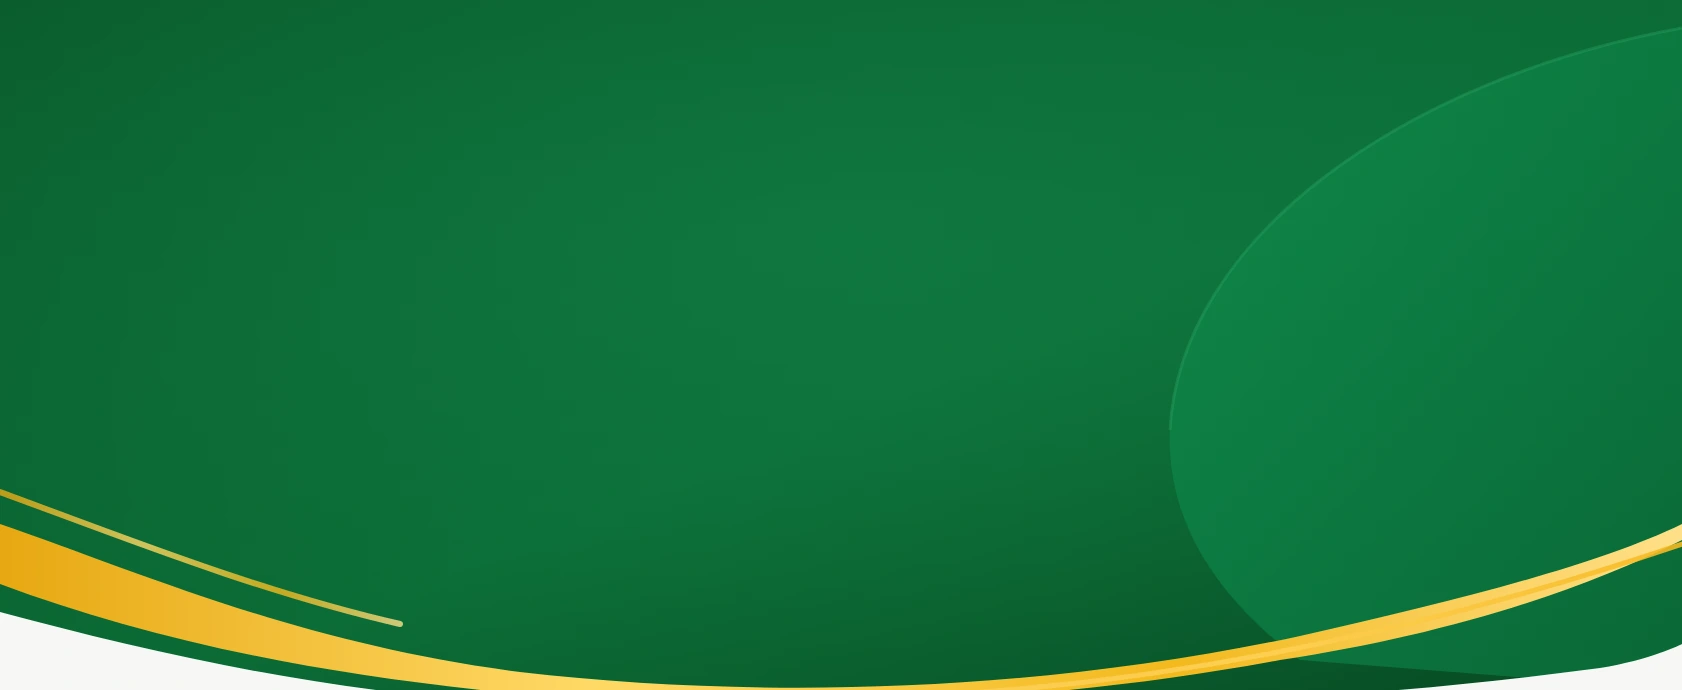
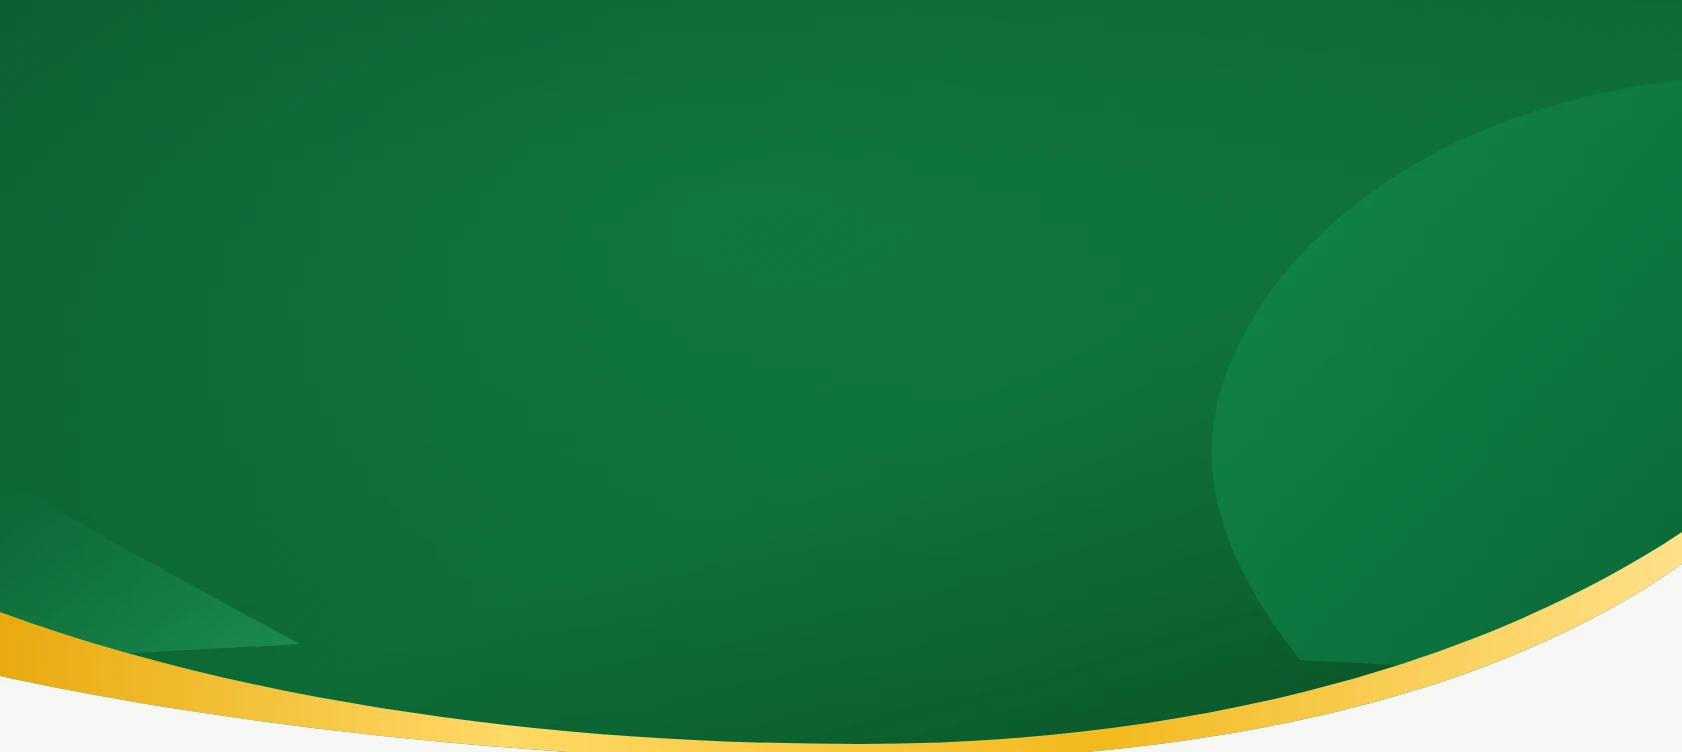
Home: header art matches the design (gold smile swoosh, taller), top/nearby cards sized like the six tiles
Claude-Session: https://claude.ai/code/session_01FfoA5BLdbc2XaEsMrMSMtQ

Changed region(s): [[0.0, 0.7, 1.0, 1.0]]

diff --git a/screens/customer.tsx b/screens/customer.tsx
@@ -128,18 +128,18 @@ function HomeOld({ navigation }: any) {
   return (
     <View style={{ flex: 1, backgroundColor: C.bg }}>
       {/* the header: the owner's artwork as the background (green, light-green shape, gold swoosh), the content drawn over it at the same places */}
-      <View style={{ width: '100%', aspectRatio: 841 / 345, backgroundColor: '#0B4A22', overflow: 'hidden' }} onLayout={(e) => setHw(e.nativeEvent.layout.width)}>
+      <View style={{ width: '100%', aspectRatio: 841 / 376, backgroundColor: '#0B4A22', overflow: 'hidden' }} onLayout={(e) => setHw(e.nativeEvent.layout.width)}>
         <Image source={require('../assets/images/home/header.webp')} style={{ position: 'absolute', left: 0, top: 0, width: '100%', height: '100%' }} resizeMode="stretch" />
-        <View style={{ position: 'absolute', left: 0, right: 0, top: hw * 0.045, alignItems: 'center' }} pointerEvents="none">
-          <Image source={require('../assets/images/home/logo-design.png')} style={{ width: hw * 0.4 * 754 / 700, height: hw * 0.4 * 383 / 700 }} resizeMode="contain" />
+        <View style={{ position: 'absolute', left: 0, right: 0, top: hw * 0.06, alignItems: 'center' }} pointerEvents="none">
+          <Image source={require('../assets/images/home/logo-design.png')} style={{ width: hw * 0.4, height: hw * 0.4 * 383 / 754 }} resizeMode="contain" />
         </View>
-        <View style={{ position: 'absolute', right: hw * 0.045, top: hw * 0.06, alignItems: 'center', gap: 2 }} pointerEvents="none">
+        <View style={{ position: 'absolute', right: hw * 0.05, top: hw * 0.11, alignItems: 'center', gap: 2 }} pointerEvents="none">
           <View style={{ width: hw * 0.09, height: hw * 0.09, borderRadius: hw * 0.045, borderWidth: 1.5, borderColor: 'rgba(255,255,255,0.75)', alignItems: 'center', justifyContent: 'center' }}>
             <Icon name="person" size={hw * 0.05} color="#fff" />
           </View>
           <T w="black" size={Math.max(11, hw * 0.032)} color="#fff" numberOfLines={1}>أهلاً {me.name.split(' ')[0]}</T>
         </View>
-        <Pressable onPress={() => setAddrOpen(true)} hitSlop={6} style={{ position: 'absolute', left: hw * 0.15, right: hw * 0.15, top: hw * 0.265, flexDirection: 'row', alignItems: 'center', justifyContent: 'center', gap: 8 }}>
+        <Pressable onPress={() => setAddrOpen(true)} hitSlop={6} style={{ position: 'absolute', left: hw * 0.15, right: hw * 0.15, top: hw * 0.322, flexDirection: 'row', alignItems: 'center', justifyContent: 'center', gap: 8 }}>
           <Icon name="location" size={Math.max(15, hw * 0.036)} color={C.gold} />
           <T w="semi" size={Math.max(11.5, hw * 0.03)} color="#fff" numberOfLines={1} style={{ flexShrink: 1 }}>{me.address || 'حدد موقعك لعرض الخدمات المتاحة'}</T>
           <Icon name="chevron-down" size={Math.max(14, hw * 0.033)} color={C.gold} />
@@ -236,11 +236,10 @@ function HomeOld({ navigation }: any) {
               showsHorizontalScrollIndicator={false}
               contentContainerStyle={{ gap: 12, paddingVertical: 4 }}
               renderItem={({ item }) => (
-                <Card onPress={() => navigation.navigate('Provider', { id: item.id })} style={{ width: tw, borderRadius: 24, paddingHorizontal: 9, paddingTop: 10, paddingBottom: 8, alignItems: 'center', gap: 4 }}>
-                  <ProviderLogo p={item} size={Math.round((tw - 18) * 0.62)} />
-                  <T w="bold" size={11.5} align="center" numberOfLines={2}>{item.name}</T>
+                <Card onPress={() => navigation.navigate('Provider', { id: item.id })} style={{ width: tw, height: Math.round(tw * 0.92), borderRadius: 24, paddingHorizontal: 9, paddingTop: 10, paddingBottom: 8, alignItems: 'center', gap: 4, overflow: 'hidden' }}>
+                  <ProviderLogo p={item} size={Math.round((tw - 18) * 0.56)} />
+                  <T w="bold" size={11.5} align="center" numberOfLines={1}>{item.name}</T>
                   <AreaTag p={item} />
-                  <ShopOfferTag providerId={item.id} compact />
                 </Card>
               )}
             />
@@ -256,16 +255,14 @@ function HomeOld({ navigation }: any) {
               showsHorizontalScrollIndicator={false}
               contentContainerStyle={{ gap: 12, paddingVertical: 4 }}
               renderItem={({ item }) => (
-                <Card onPress={() => navigation.navigate('Provider', { id: item.id })} style={{ width: tw, borderRadius: 24, paddingHorizontal: 9, paddingTop: 10, paddingBottom: 8, alignItems: 'center', gap: 4 }}>
-                  <ProviderLogo p={item} size={Math.round((tw - 18) * 0.62)} />
-                  <T w="bold" size={11.5} align="center" numberOfLines={2}>{item.name}</T>
+                <Card onPress={() => navigation.navigate('Provider', { id: item.id })} style={{ width: tw, height: Math.round(tw * 0.92), borderRadius: 24, paddingHorizontal: 9, paddingTop: 10, paddingBottom: 8, alignItems: 'center', gap: 4, overflow: 'hidden' }}>
+                  <ProviderLogo p={item} size={Math.round((tw - 18) * 0.56)} />
+                  <T w="bold" size={11.5} align="center" numberOfLines={1}>{item.name}</T>
                   <View style={{ flexDirection: 'row', alignItems: 'center', gap: 4 }}>
                     <Icon name="star" size={13} color={C.gold} />
                     <T w="bold" size={12}>{item.rating.toFixed(1)}</T>
                     <T size={11.5} color={C.sub}>• {item.eta} د</T>
                   </View>
-                  <AreaTag p={item} />
-                  <ShopOfferTag providerId={item.id} compact />
                 </Card>
               )}
             />
